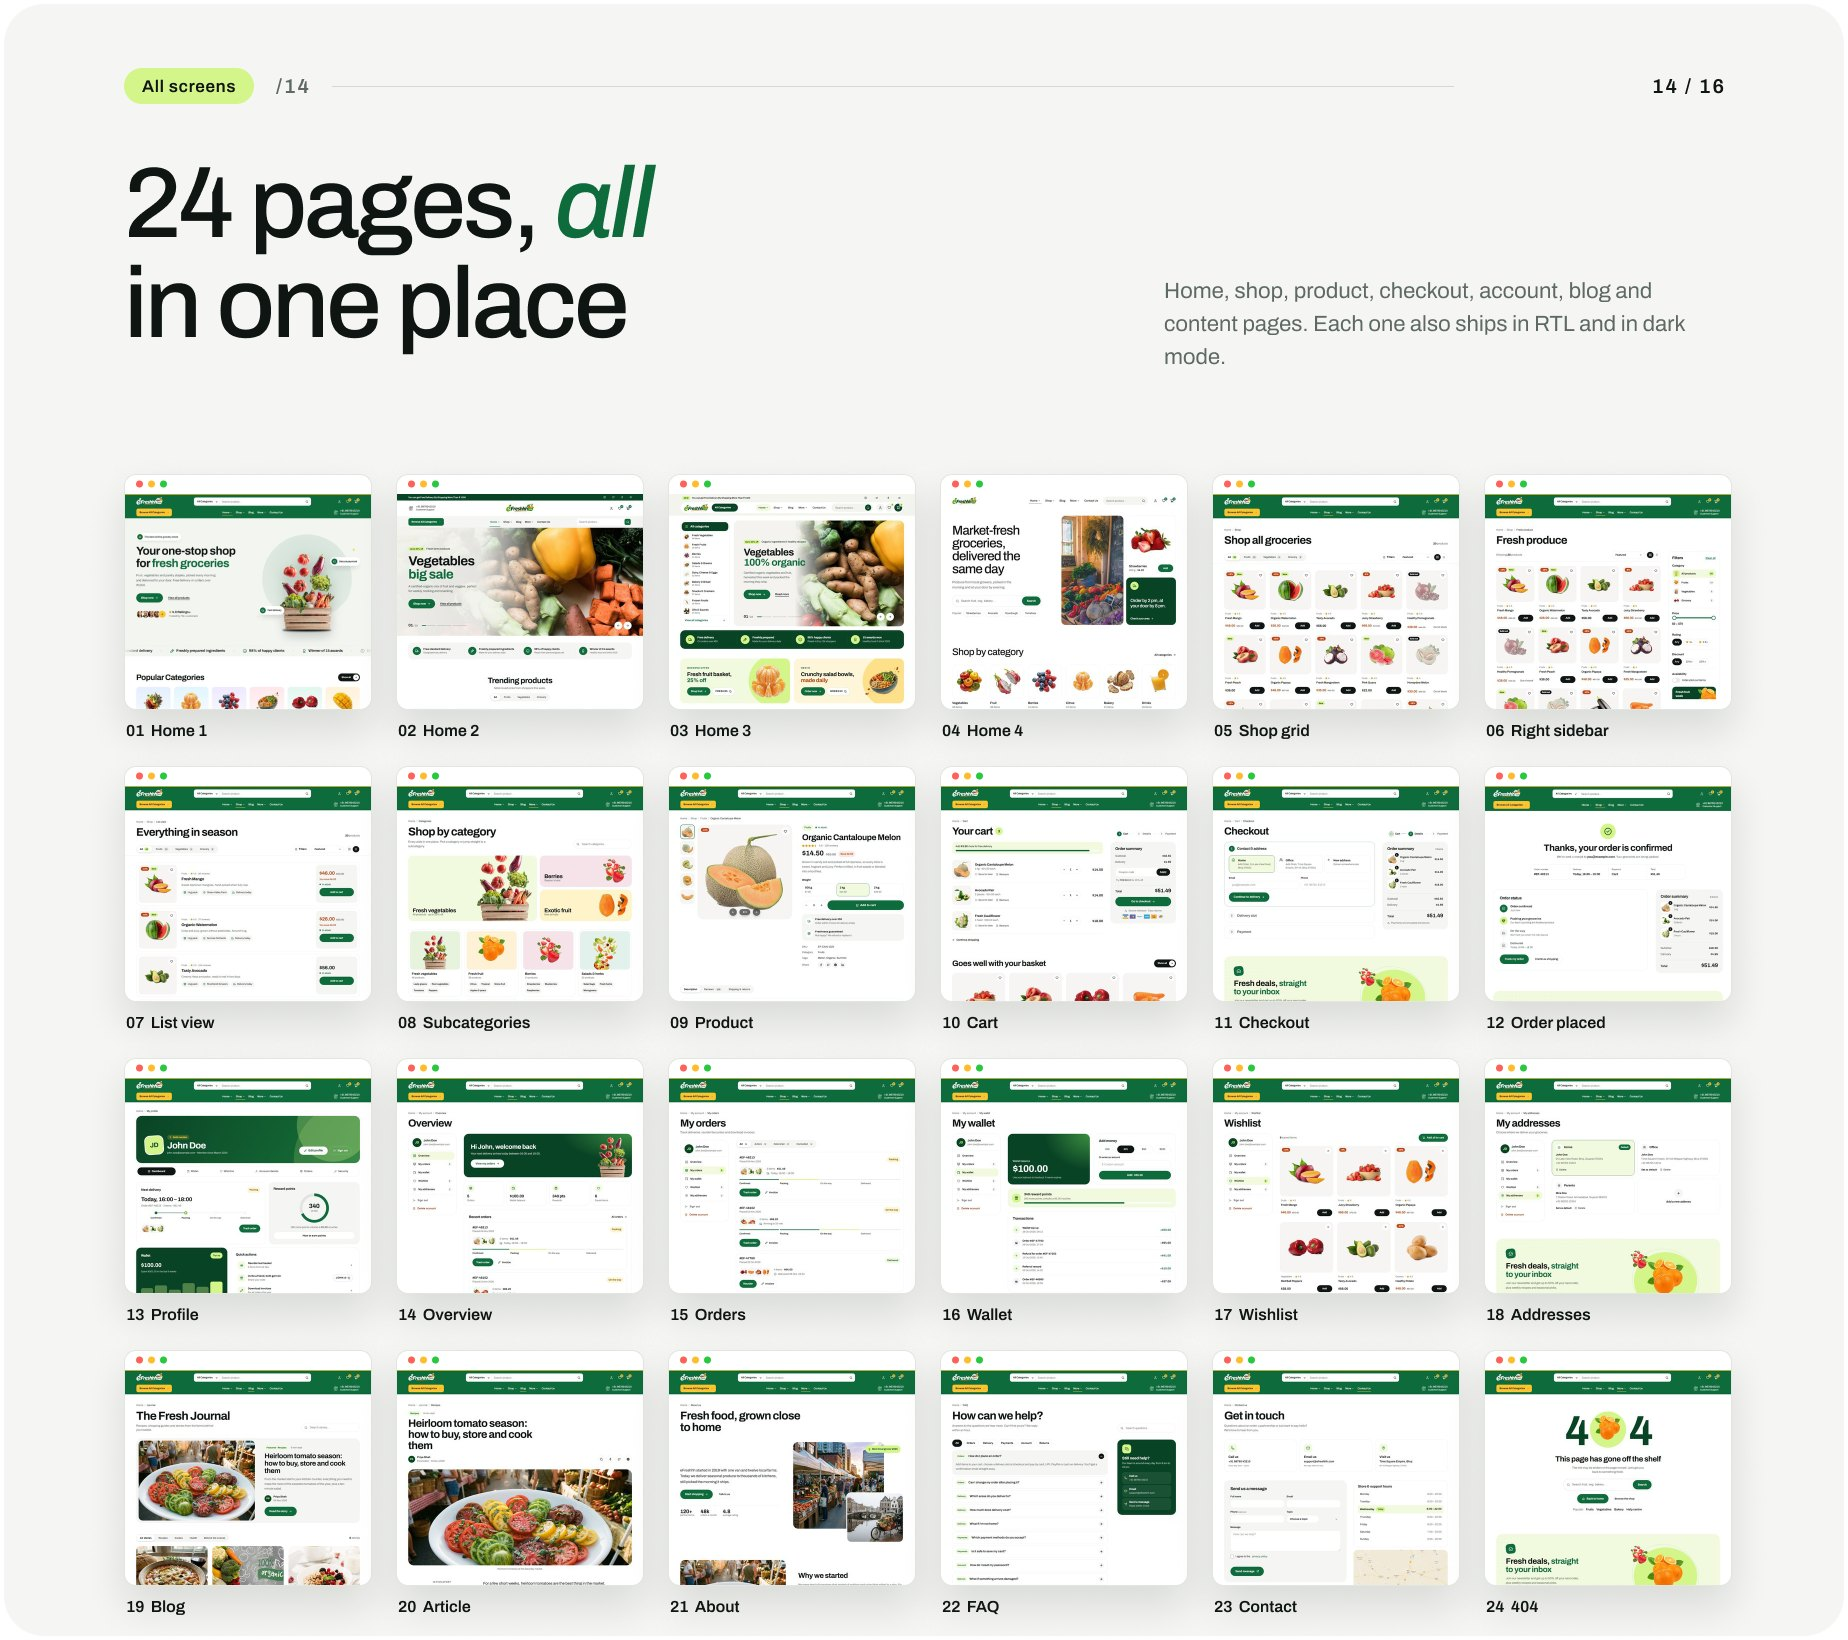
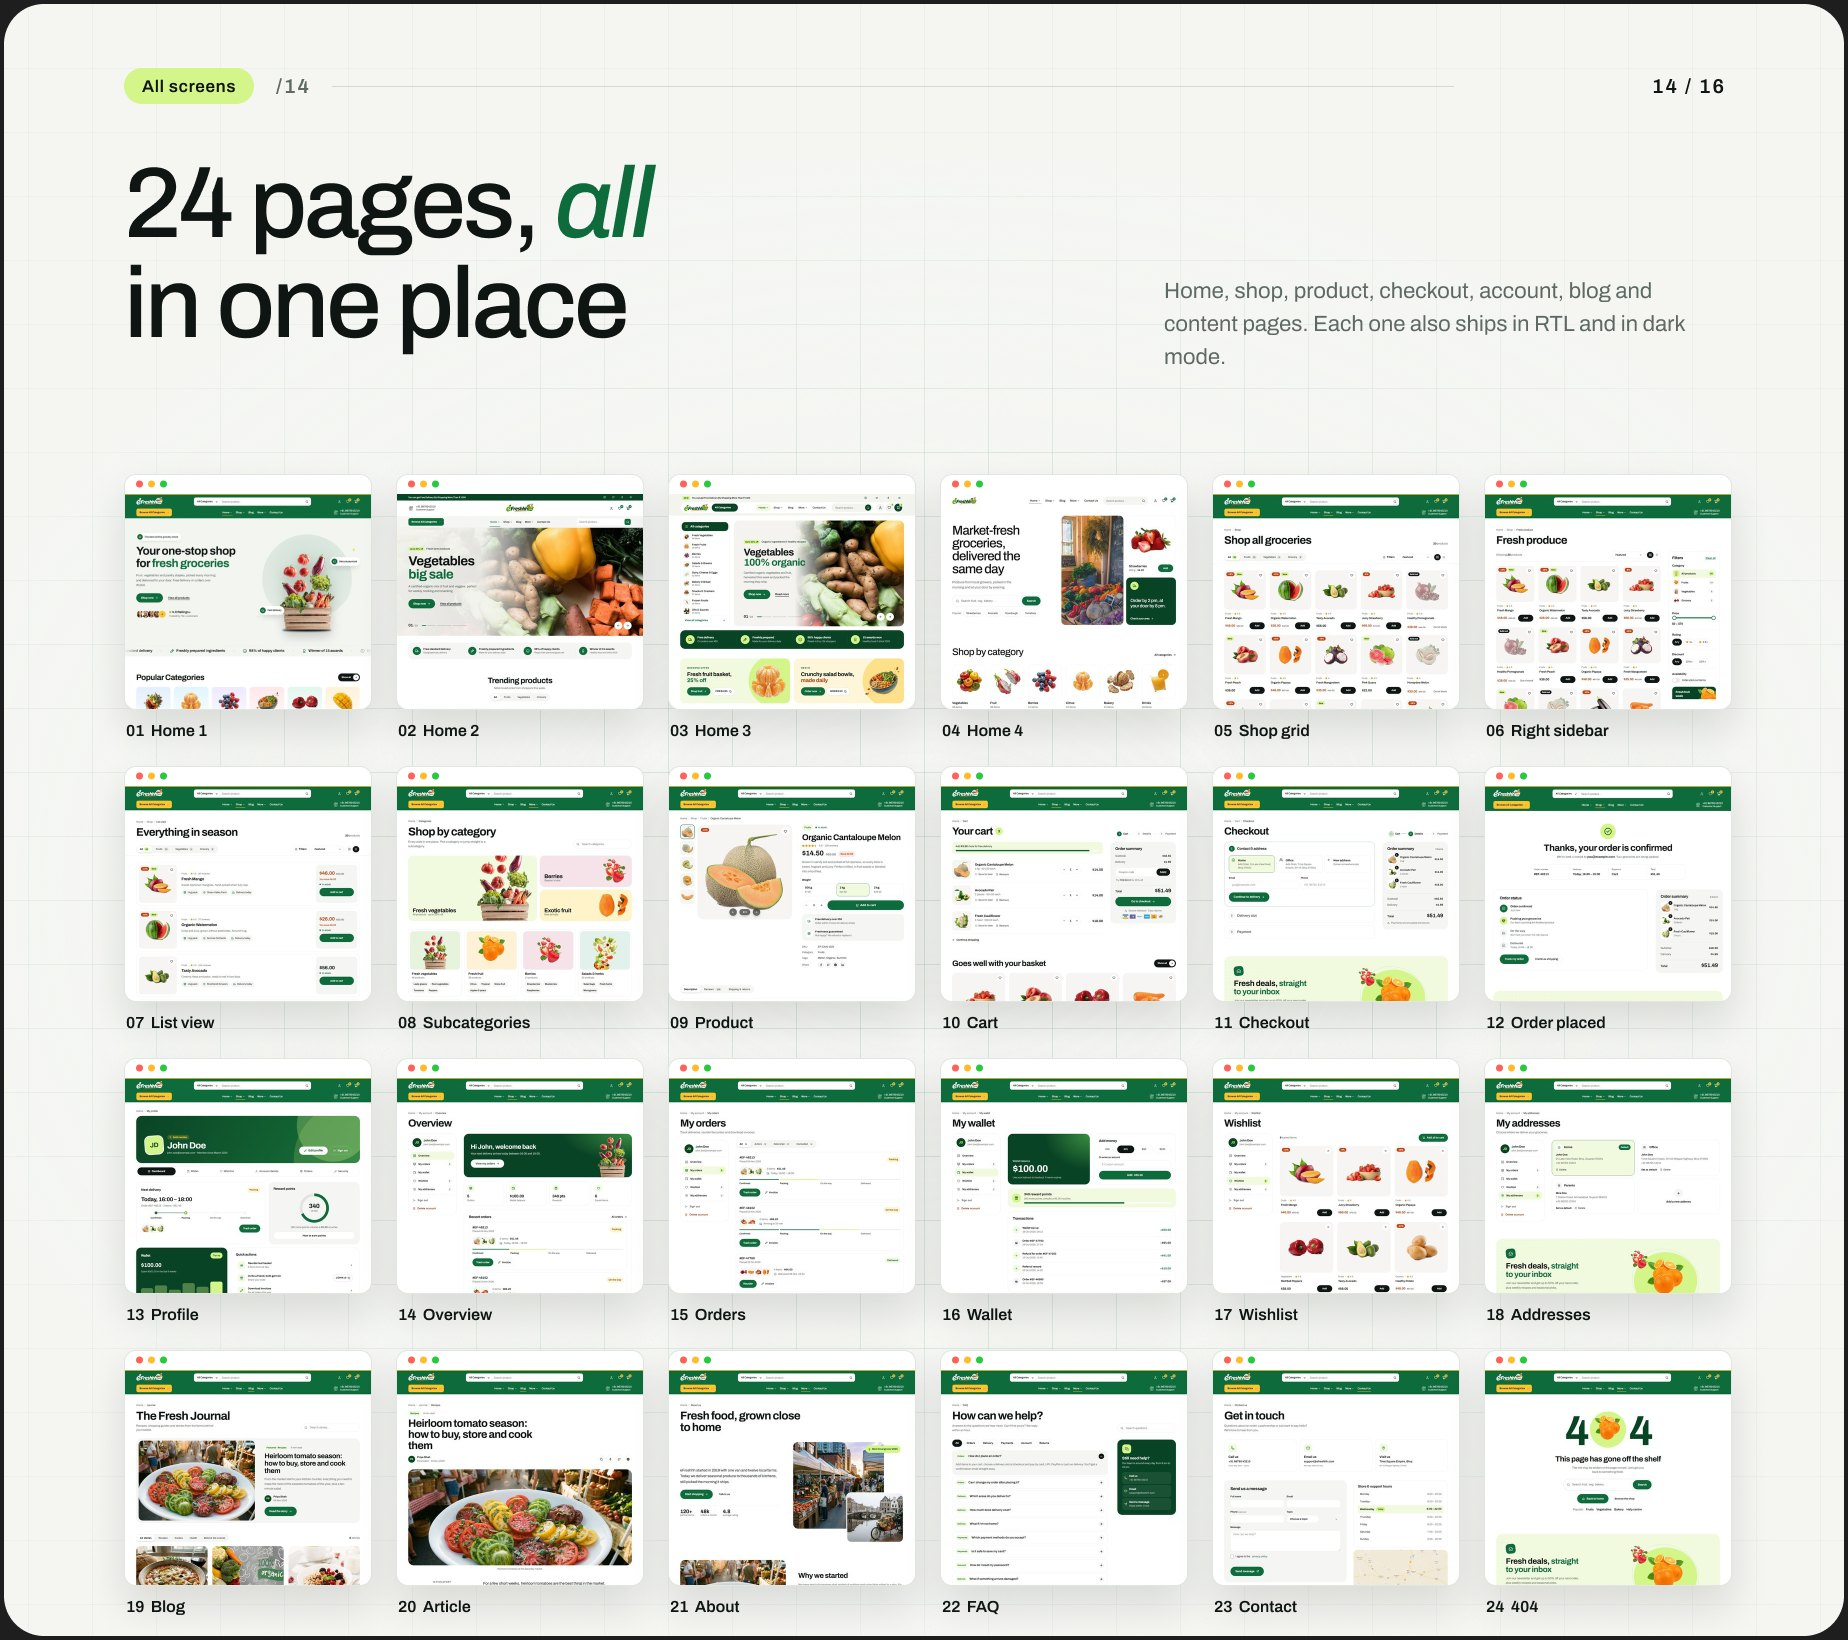
Update eFreshhh presentation: grid background, cover

Changed region(s): [[0.0, 0.0, 1.0, 1.0], [0.0, 0.0, 0.0308, 0.0311]]

diff --git a/README.md b/README.md
@@ -17,6 +17,6 @@ Served through jsDelivr:
 | bondly | Bondly dating & social app UI kit | bondly-v1.0.0 |
 | musinto | Musinto music streaming app UI kit | musinto-v1.0.3 |
 | mieo | Mieo kids language-learning app UI kit (Flutter + Figma) | mieo-v1.0.1 |
-| efreshhh | eFreshhh grocery & food delivery HTML template | efreshhh-v1.0.0 |
+| efreshhh | eFreshhh grocery & food delivery HTML template | efreshhh-v1.0.1 |
 
 No template code lives here.
